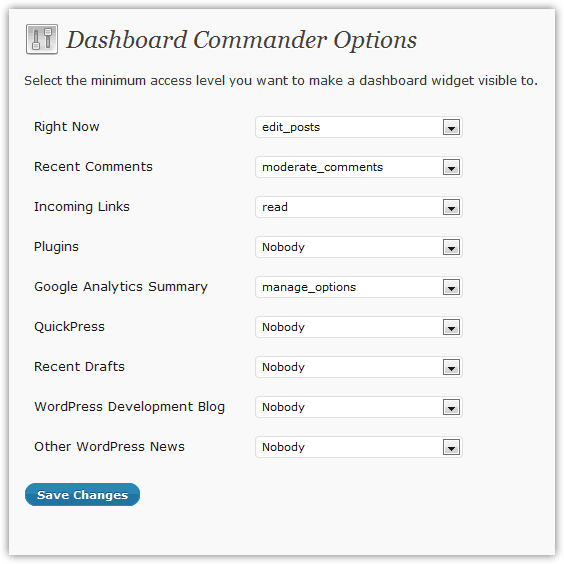
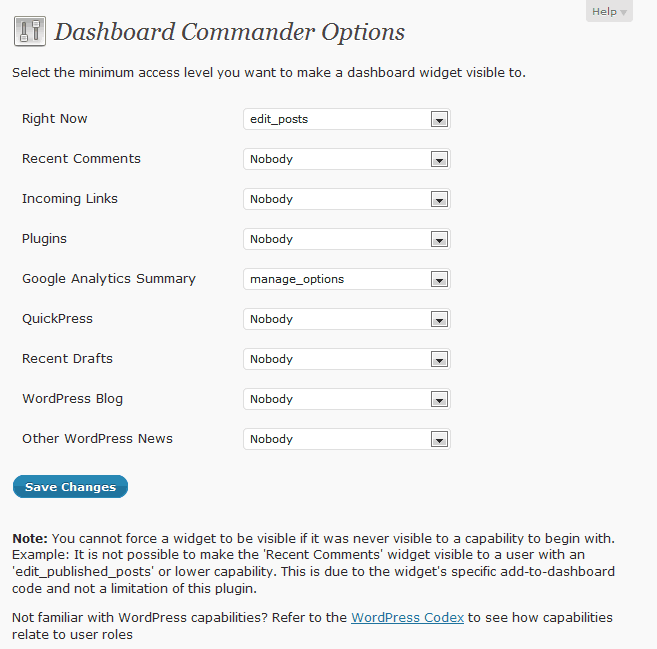
1.0.1 Release
git-svn-id: https://plugins.svn.wordpress.org/dashboard-commander/trunk@350183 b8457f37-d9ea-0310-8a92-e5e31aec5664

diff --git a/dashboard-commander.php b/dashboard-commander.php
@@ -3,7 +3,7 @@
 Plugin Name: Dashboard Commander
 Plugin URI: http://www.warpconduit.net/wordpress-plugins/dashboard-commander/
 Description: Command your admin dashboard. Manage built-in widgets and dynamically registered widgets. Hide widgets depending upon user capabilities. Plugin is based upon Dashboard Heaven by Dave Kinkead.
-Version: 1.0
+Version: 1.0.1
 Author: Josh Hartman
 Author URI: http://www.warpconduit.net
 License: GPL2
@@ -29,6 +29,7 @@ add_action('wp_dashboard_setup', 'dcmd_wp_dashboard_setup', 99);
 add_action('admin_init', 'dcmd_admin_init');
 add_action('admin_menu', 'dcmd_admin_menu');
 add_action('admin_notices', 'dcmd_admin_notices');
+add_filter("plugin_action_links_".plugin_basename(__FILE__), 'dcmd_plugin_settings_link' );
 
 register_deactivation_hook(__FILE__, 'dcmd_deactivate');
 
@@ -56,6 +57,17 @@ function dcmd_admin_init() {
 			register_setting('dcmd_options', 'dcmd_'.$widget['id']);
 		}
 	}
+}
+
+/**
+ *	Display Settings link on Plugins admin page
+ * 	@args	array
+ *	@return	array
+ */
+function dcmd_plugin_settings_link($links) { 
+  $settings_link = '<a href="options-general.php?page='.plugin_basename(__FILE__).'">Settings</a>'; 
+  array_unshift($links, $settings_link); 
+  return $links; 
 }
 
 /**
@@ -178,6 +190,8 @@ function dcmd_admin_page() {
 		<p class="submit">
 			<input type="submit" class="button-primary" value="<?php _e('Save Changes') ?>" />
 		</p>
+		<p><strong>Note:</strong> You cannot force a widget to be visible if it was never visible to a capability to begin with. Example: It is not possible to make the 'Recent Comments' widget visible to a user with an 'edit_published_posts' or lower capability.  This is due to the widget's specific add-to-dashboard code and not a limitation of this plugin.</p>
+		<p>Not familiar with WordPress capabilities? Refer to the <a href="http://codex.wordpress.org/Roles_and_Capabilities#Capability_vs._Role_Table" target="_blank">WordPress Codex</a> to see how capabilities relate to user roles</p>
 	</form>
 	<?php endif; ?>
 	</div>
